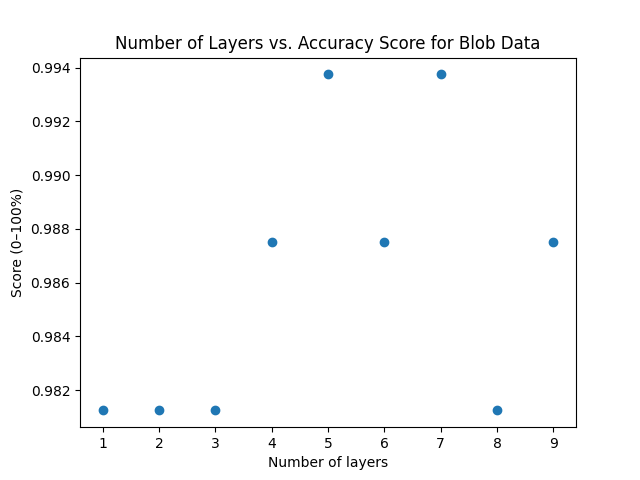
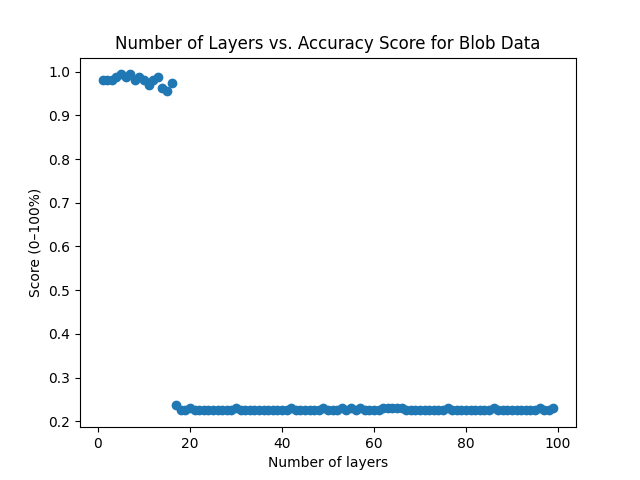
Final version

diff --git a/LAB2/lab2.py b/LAB2/lab2.py
@@ -58,20 +58,20 @@ def make_moon_data():
 def line_best_fit(x_data, y_data):
     # Calculate linear regression line (fit the data with a line)
     y = []
-    w1, w0 = np.polyfit(x_data, y_data, 1)  # Get slope (w1) and intercept (w0)
+    w1, w0 = np.polyfit(x_data, y_data, 1)
     for i in x_data:
-        y.append((w1*i) + w0)  # Compute the predicted y values from the line
+        y.append((w1*i) + w0)
     # Calculate how well the line fits (R-squared value)
     r_squared = round(r2_score(y_data, y), 3)
-    plt.figtext(0.1, 0.01, "R^2 = " + str(r_squared), fontsize=10)  # Display R² score on plot
-    plt.plot(x_data, y)  # Draw the regression line
+    plt.figtext(0.1, 0.01, "R^2 = " + str(r_squared), fontsize=10)
+    plt.plot(x_data, y)
 
 # Trains and evaluates a neural network with customizable architecture
 def run_MLP(X_train, X_test, y_train, y_test, hidden_layers_size=10, random_state=10,  momentum=.9, number_of_layers=1, batch_size=20):
     start = time.time()
     # Create MLP with specified number of hidden layers, each with same size
     clf = MLPClassifier(hidden_layer_sizes=tuple(hidden_layers_size for _ in range(number_of_layers)), random_state=random_state, solver='sgd', momentum = momentum, batch_size=batch_size, max_iter=5000)
-    clf.fit(X_train, y_train)  # Train the model
+    clf.fit(X_train, y_train)
     np.set_printoptions(suppress=True, precision=2)
     end = time.time()
     # Calculate training time in milliseconds
@@ -102,13 +102,13 @@ def plot_decision_boundaries(X, y, model_class, **model_params):
 
 # Test how momentum affects training speed
 def plot_mom_vs_runtime(X_train, X_test, y_train, y_test, type):
-    x = []  # Momentum values
-    y = []  # Runtime values
+    x = []
+    y = []
     # Try momentum from 0 to 0.99 in increments of 0.01
     for i in np.arange(0, 1, 0.01):
         x.append(i)
         data = run_MLP(X_train, X_test, y_train, y_test, momentum=i)
-        y.append(data[5])  # Extract runtime (index 5)
+        y.append(data[5])
 
     plt.figure()
     line_best_fit(x, y)
@@ -120,12 +120,12 @@ def plot_mom_vs_runtime(X_train, X_test, y_train, y_test, type):
 
 # Test how momentum affects model accuracy
 def plot_mom_vs_accuracy(X_train, X_test, y_train, y_test, type):
-    x = []  # Momentum values
-    y = []  # Accuracy values
+    x = []
+    y = []
     for i in np.arange(0, 1, 0.01):
         x.append(i)
         data = run_MLP(X_train, X_test, y_train, y_test, momentum=i)
-        y.append(data[6])  # Extract accuracy score (index 6)
+        y.append(data[6])
 
     plt.figure()
     plt.scatter(x, y)
@@ -136,13 +136,13 @@ def plot_mom_vs_accuracy(X_train, X_test, y_train, y_test, type):
 
 # Test how the size of hidden layers affects training speed
 def plot_layer_size_vs_runtime(X_train, X_test, y_train, y_test, type):
-    x = []  # Hidden layer sizes
-    y = []  # Runtime values
+    x = []
+    y = []
     # Try layer sizes from 1 to 99 neurons
     for i in np.arange(1, 100, 1):
         x.append(i)
         data = run_MLP(X_train, X_test, y_train, y_test, hidden_layers_size=i)
-        y.append(data[5])  # Extract runtime (index 5)
+        y.append(data[5])
 
     plt.figure()
     line_best_fit(x, y)
@@ -154,13 +154,13 @@ def plot_layer_size_vs_runtime(X_train, X_test, y_train, y_test, type):
 
 # Test how the size of hidden layers affects model accuracy (momentum fixed at 0.9)
 def plot_layer_size_vs_accuracy(X_train, X_test, y_train, y_test, type):
-    x = []  # Hidden layer sizes
-    y = []  # Accuracy values
+    x = []
+    y = []
     for i in np.arange(1, 100, 1):
         x.append(i)
         # Parameters: hidden_size=i, random_state=10, momentum=.9
         data = run_MLP(X_train, X_test, y_train, y_test, i, 10, .9,)
-        y.append(data[6])  # Extract accuracy score (index 6)
+        y.append(data[6])
 
     plt.figure()
     plt.scatter(x, y)
@@ -171,13 +171,13 @@ def plot_layer_size_vs_accuracy(X_train, X_test, y_train, y_test, type):
 
 # Test how the number of hidden layers affects model accuracy
 def plot_number_of_layers_vs_accuracy(X_train, X_test, y_train, y_test, type):
-    x = []  # Number of hidden layers
-    y = []  # Accuracy values
-    # Try networks with 1 to 9 hidden layers
-    for i in np.arange(1, 10, 1):
+    x = []
+    y = []
+    # Try networks with 1 to 99 hidden layers
+    for i in np.arange(1, 100, 1):
         x.append(i)
         data = run_MLP(X_train, X_test, y_train, y_test, number_of_layers=i)
-        y.append(data[6])  # Extract accuracy score (index 6)
+        y.append(data[6])
 
     plt.figure()
     plt.scatter(x, y)
@@ -190,12 +190,12 @@ def plot_number_of_layers_vs_accuracy(X_train, X_test, y_train, y_test, type):
 
 # Test how the number of hidden layers affects training speed
 def plot_number_of_layers_vs_runtime(X_train, X_test, y_train, y_test, type):
-    x = []  # Number of hidden layers
-    y = []  # Runtime values
-    for i in np.arange(1, 10, 1):
+    x = []
+    y = []
+    for i in np.arange(1, 100, 1):
         x.append(i)
         data = run_MLP(X_train, X_test, y_train, y_test, number_of_layers=i)
-        y.append(data[5])  # Extract runtime (index 5)
+        y.append(data[5])
 
     plt.figure()
     line_best_fit(x, y)
@@ -208,13 +208,13 @@ def plot_number_of_layers_vs_runtime(X_train, X_test, y_train, y_test, type):
 
 # Test how batch size affects model accuracy
 def plot_batch_size_vs_accuracy(X_train, X_test, y_train, y_test, type):
-    x = []  # Batch sizes
-    y = []  # Accuracy values
+    x = []
+    y = []
     # Try batch sizes from 1 to training set size, in increments of 10
     for i in np.arange(1, len(X_train),10):
         x.append(i)
         data = run_MLP(X_train, X_test, y_train, y_test, batch_size=i)
-        y.append(data[6])  # Extract accuracy score (index 6)
+        y.append(data[6])
 
     plt.figure()
     plt.scatter(x, y)
@@ -227,13 +227,13 @@ def plot_batch_size_vs_accuracy(X_train, X_test, y_train, y_test, type):
 
 # Test how batch size affects training speed
 def plot_batch_size_vs_runtime(X_train, X_test, y_train, y_test, type):
-    x = []  # Batch sizes
-    y = []  # Runtime values
+    x = []
+    y = []
     # Try batch sizes from 1 to training set size, in increments of 10
     for i in np.arange(1, len(X_train), 10):
         x.append(i)
         data = run_MLP(X_train, X_test, y_train, y_test, batch_size=i)
-        y.append(data[5])  # Extract runtime (index 5)
+        y.append(data[5])
 
     plt.figure()
     line_best_fit(x, y)
